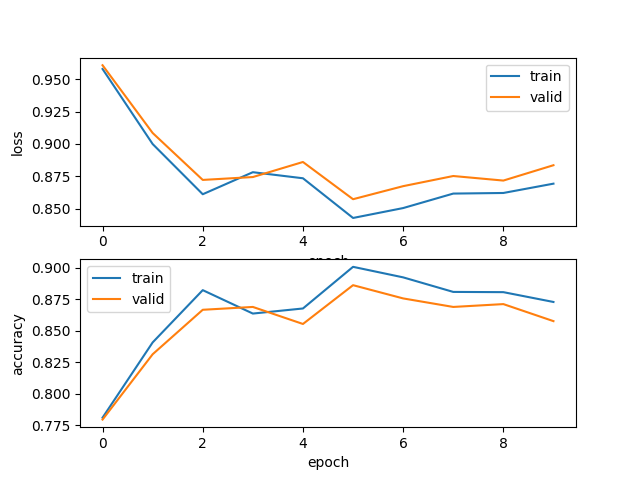
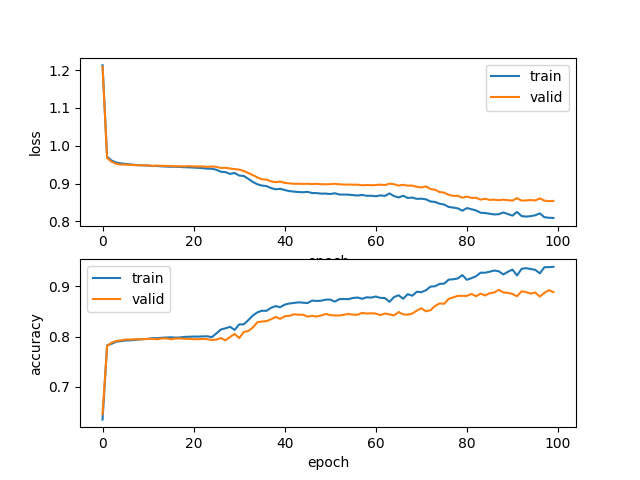
revised folder

diff --git a/08/79.py b/08/79.py
@@ -56,11 +56,11 @@ ds = TensorDataset(X_train, Y_train)
 loss_fn = nn.CrossEntropyLoss()
 # DataLoaderを作成
 
-loader = DataLoader(ds, batch_size=1, shuffle=True)
+loader = DataLoader(ds, batch_size=32, shuffle=True)
 optimizer = optim.SGD(net.parameters(), lr=1e-1)
 
 
-for epoch in tqdm(range(10)):
+for epoch in tqdm(range(100)):
     for xx, yy in loader:
         xx = xx.to(device)
         yy = yy.to(device)
@@ -125,6 +125,6 @@ print('評価データ:',accuracy(valid_pred,Y_valid))
 """
 [プログラムの結果]
 %python 79.py
-学習データ: 0.8779047976011994
-評価データ: 0.8643178410794603
+学習データ: 0.8727511244377811
+評価データ: 0.8575712143928036
 """
